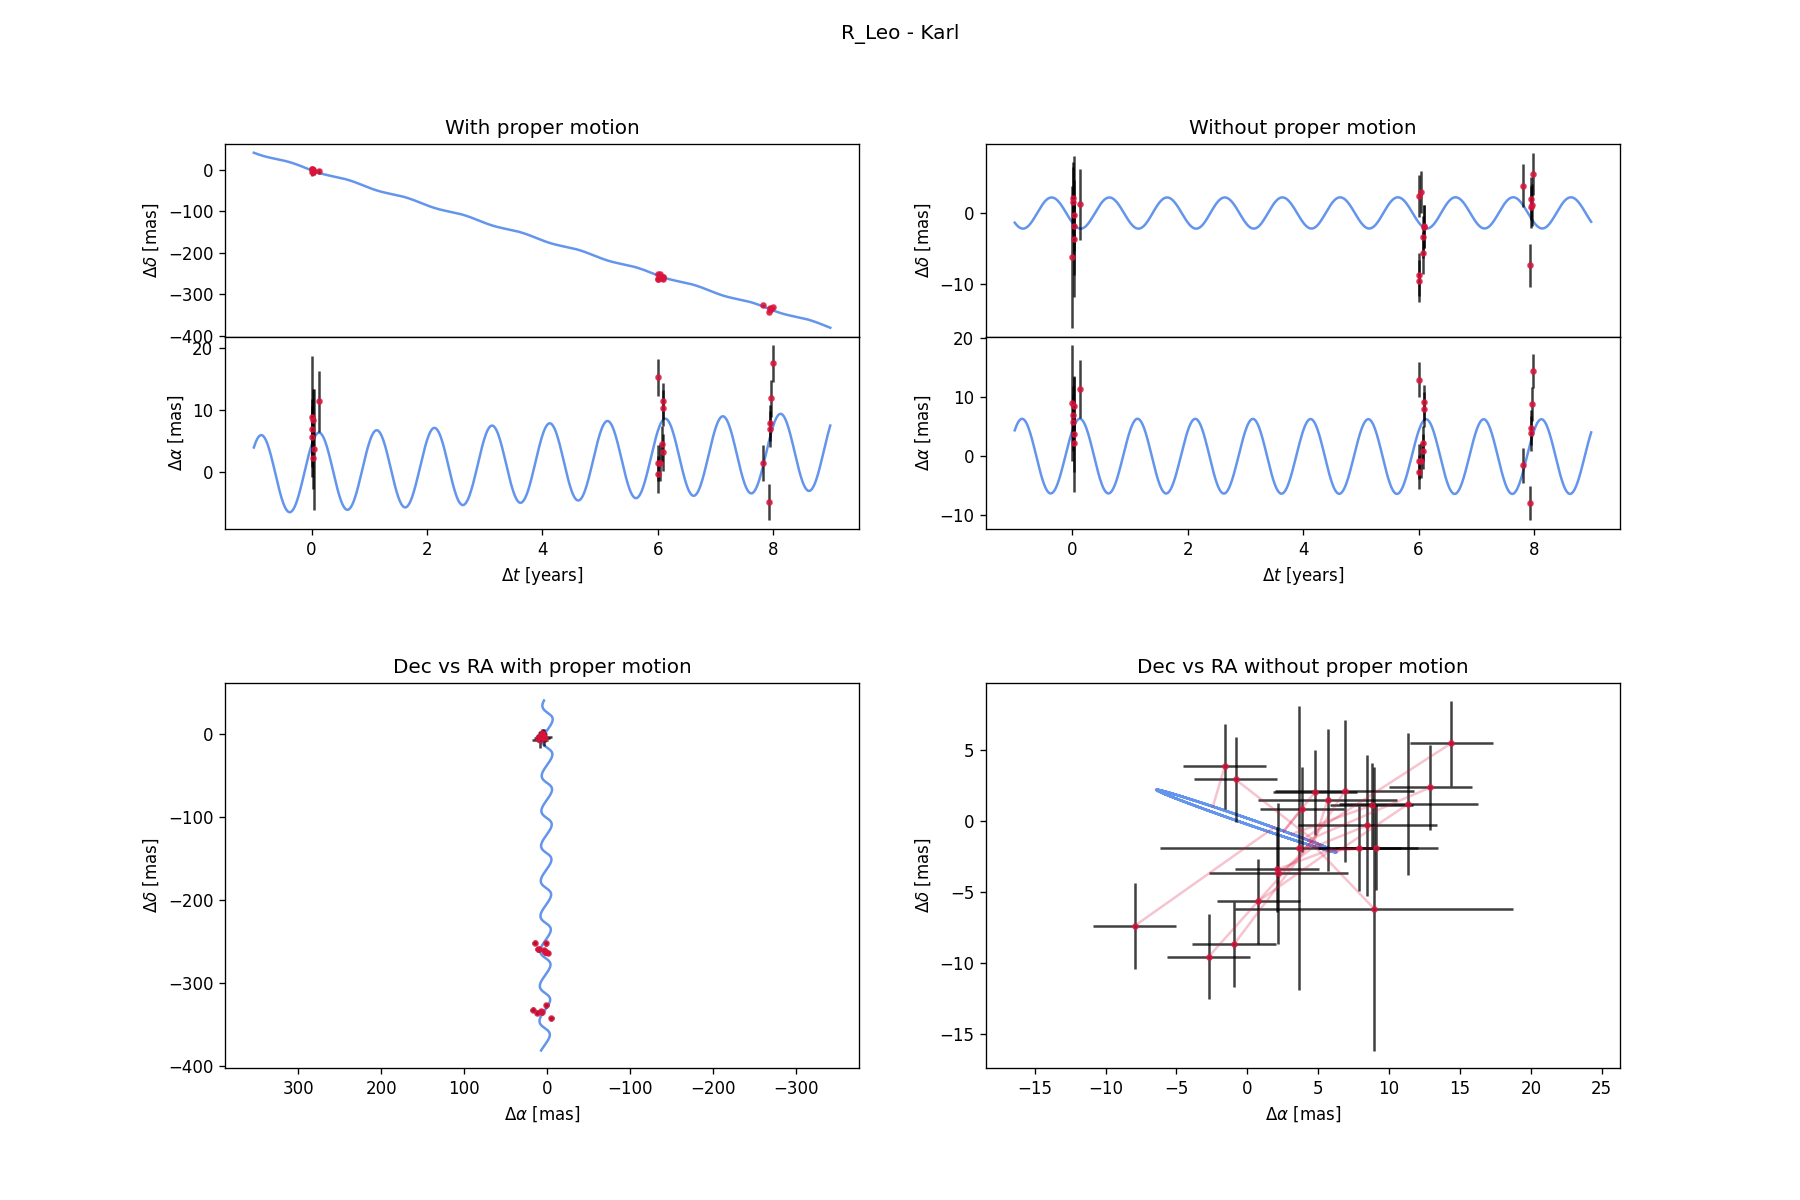
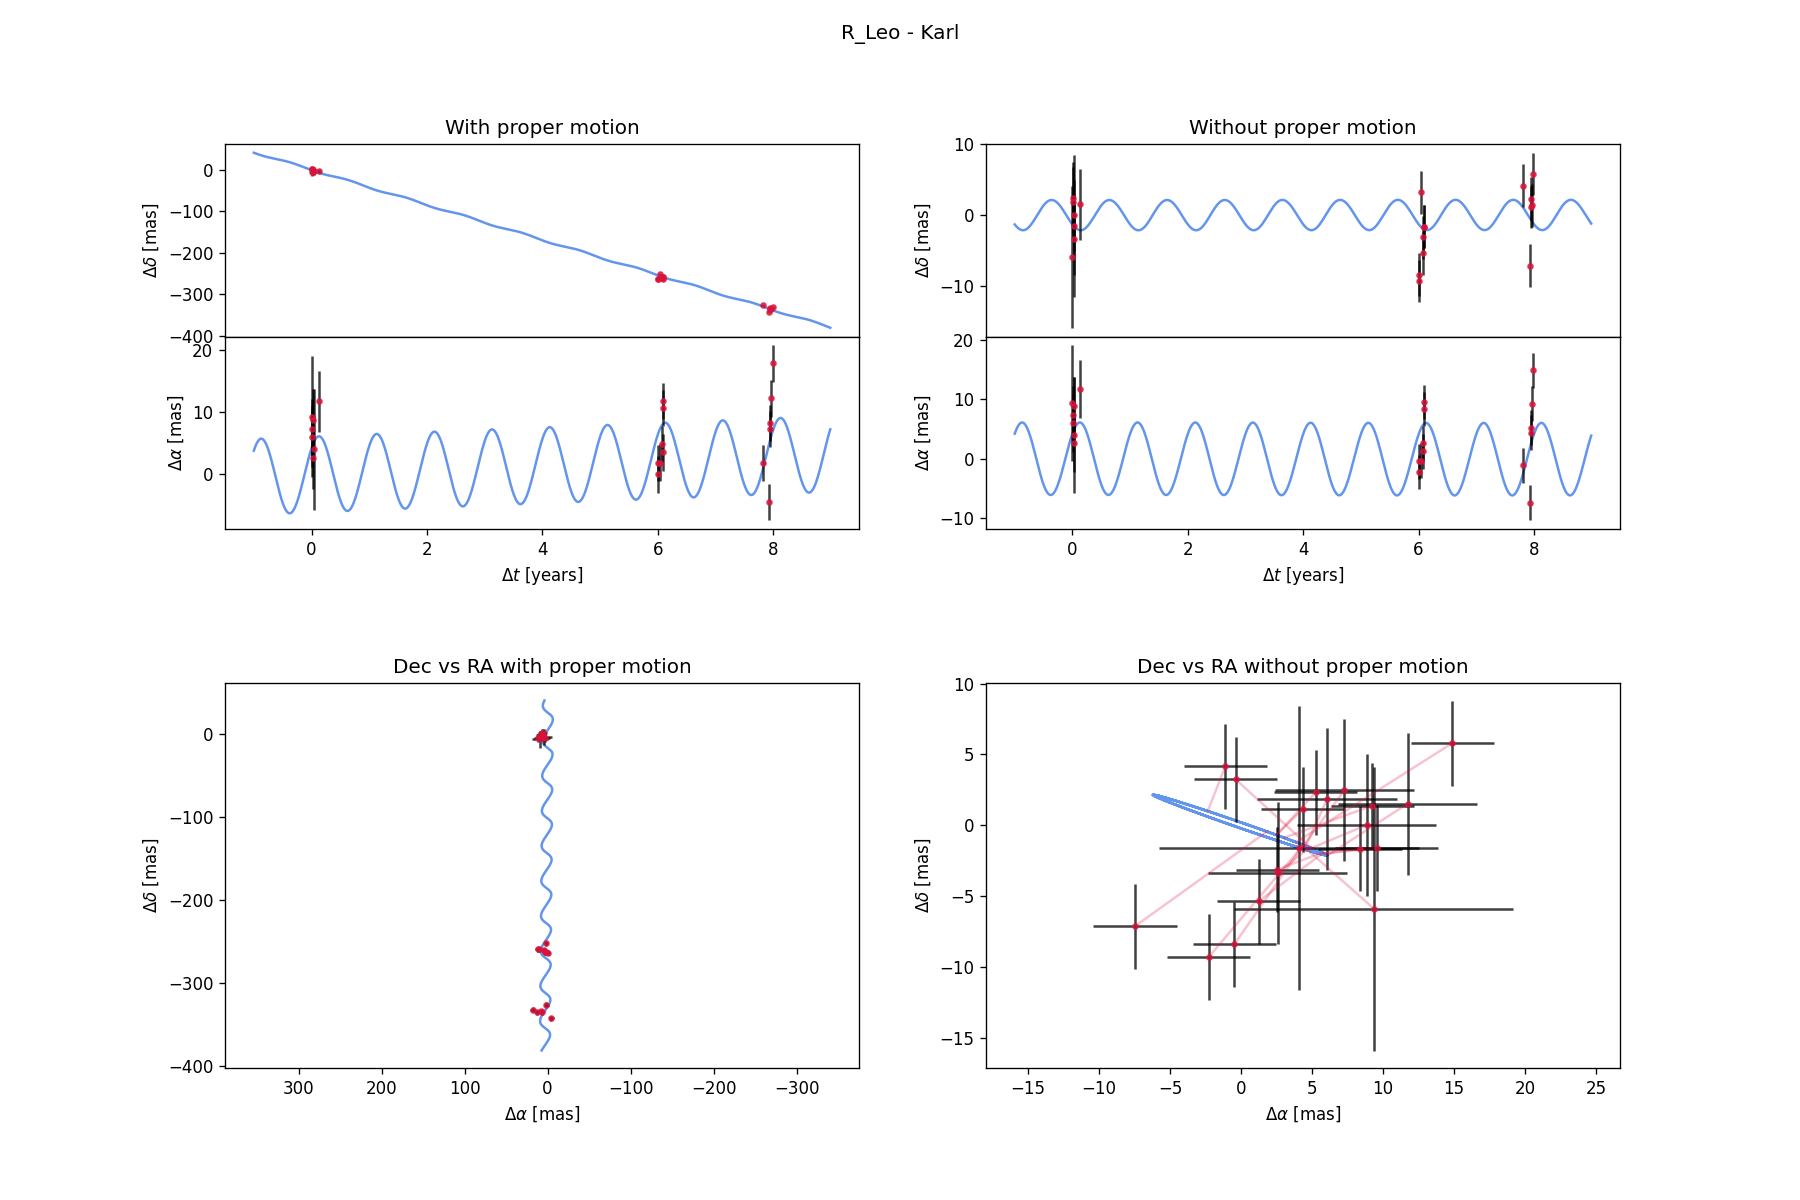
fixat Philips förväxling av i och o

diff --git a/parser.py b/parser.py
@@ -11,18 +11,24 @@ from astropy.io import fits
 from os import listdir
 from os.path import isfile, join
 from datetime import datetime
+from PIL import Image
 
-<<<<<<< HEAD
 #läs banlist
 with open(r'banlist.txt', 'r') as fp:
     lines = fp.readlines()
 
 # Returnerar lista av (band (int), tidpunkt (datetime), bild_data (np.ndarray av ra, dec, intensitet))
-def parseFits(fits_dir, banlist=False):
+def parseFits(fits_dir, user_file = None, banlist=False):
     # Hämta lista av fits filer från mapp
     fits_files = [fits_file for fits_file in listdir(fits_dir) if isfile(join(fits_dir, fits_file))]
     observations = list()
     date_format = "%Y-%m-%dT%H:%M:%S.%f"
+
+    if user_file:
+        user_data = np.loadtxt(fname='user_data/' + user_file, skiprows= 3, unpack=True, encoding='latin1', 
+                                                    dtype=[("time", '<U20'), ("ra_pixels",float), ("dec_pixels", float)])
+        user_name, user_ra_pixels, user_dec_pixels = user_data
+
     # Gå igenom varje fits fil
     for fits_file in fits_files:
         next=False
@@ -39,29 +45,6 @@ def parseFits(fits_dir, banlist=False):
             # HDUList (Header Data Unit)
             hdul = fits.open(fits_dir + fits_file)
             #hdul.info() # Printar lite info om fitsfilen
-=======
-from PIL import Image
-
-# Returnerar lista av (band (int), tidpunkt (datetime), bild_data (np.ndarray av ra, dec, intensitet))
-def parseFits(fits_dir, user_file = None):
-    # Hämta lista av fits filer från mapp
-    fits_files = [fits_file for fits_file in listdir(fits_dir) if isfile(join(fits_dir, fits_file))]
-    
-    observations = list()
-    date_format = "%Y-%m-%dT%H:%M:%S.%f"
-    if user_file:
-        user_data = np.loadtxt(fname='user_data/' + user_file, skiprows= 3, unpack=True, encoding='latin1', 
-                                                    dtype=[("time", '<U20'), ("ra_pixels",float), ("dec_pixels", float)])
-        user_name, user_ra_pixels, user_dec_pixels = user_data
-
-    # Gå igenom varje fits fil
-    for fits_file in fits_files:
-        
-        # Öppna fitsfil
-        # HDUList (Header Data Unit)
-        hdul = fits.open(fits_dir + fits_file)
-        #hdul.info() # Printar lite info om fitsfilen
->>>>>>> 8805225ad7ff7e715a0d3dd4fde85acbf451c51b
 
             # Header information
             # Se: http://www.alma.inaf.it/images/ArchiveKeyworkds.pdf
@@ -75,17 +58,12 @@ def parseFits(fits_dir, user_file = None):
             date_str = header['DATE-OBS']
             date = datetime.strptime(date_str, date_format)
 
-<<<<<<< HEAD
             # Bilddatan
             intensities = np.squeeze(hdul[0].data)
-=======
-        # Bilddatan
-        intensities = np.squeeze(hdul[0].data)
-        im = Image.fromarray((255*(intensities - np.min(intensities))/(np.max(intensities)-np.min(intensities))).astype(dtype=np.uint8))
-        im.save(f'star_images/{fits_file}.png')
+            im = Image.fromarray((255*(intensities - np.min(intensities))/(np.max(intensities)-np.min(intensities))).astype(dtype=np.uint8))
+            im.save(f'star_images/{fits_file}.png')
 
         
->>>>>>> 8805225ad7ff7e715a0d3dd4fde85acbf451c51b
 
             width, height = intensities.shape
             x_pixels = np.linspace(0, width, width)
@@ -101,28 +79,21 @@ def parseFits(fits_dir, user_file = None):
             dec_delta = header['CDELT2']
             dec_pixel_ref = header['CRPIX2']
 
-<<<<<<< HEAD
             # Konvertera från pixel koordinater till ekvatoriella koordinater
             ras = ra_ref + (x_pixels - ra_pixel_ref) * ra_delta
             decs = dec_ref + (y_pixels - dec_pixel_ref) * dec_delta
-=======
-        # Konvertera från pixel koordinater till ekvatoriella koordinater
-        ras = ra_ref + (x_pixels - ra_pixel_ref) * ra_delta
-        decs = dec_ref + (y_pixels - dec_pixel_ref) * dec_delta
 
-        if user_file:
-            idx = np.where(user_name == fits_file.split('.')[0])
-            if idx[0].size == 0:
-                continue
-            u_ra_pixel, u_dec_pixel = user_ra_pixels[idx][0], user_dec_pixels[idx][0]
+            if user_file:
+                idx = np.where(user_name == fits_file.split('.')[0])
+                if idx[0].size == 0:
+                    continue
+                u_ra_pixel, u_dec_pixel = user_ra_pixels[idx][0], user_dec_pixels[idx][0]
 
-            user_ra = ra_ref + (u_ra_pixel - ra_pixel_ref) * ra_delta
-            user_dec = dec_ref + (u_dec_pixel - dec_pixel_ref) * dec_delta
+                user_ra = ra_ref + (u_ra_pixel - ra_pixel_ref) * ra_delta
+                user_dec = dec_ref + (u_dec_pixel - dec_pixel_ref) * dec_delta
 
-            observations.append((band, date, ras, decs, intensities, np.abs(ra_delta), np.abs(dec_delta), user_ra, user_dec))
-        else:
-            observations.append((band, date, ras, decs, intensities))
->>>>>>> 8805225ad7ff7e715a0d3dd4fde85acbf451c51b
+                observations.append((band, date, ras, decs, intensities, np.abs(ra_delta), np.abs(dec_delta), user_ra, user_dec))
+            else:
+                observations.append((band, date, ras, decs, intensities))
 
-            observations.append((band, date, ras, decs, intensities))
     return observations